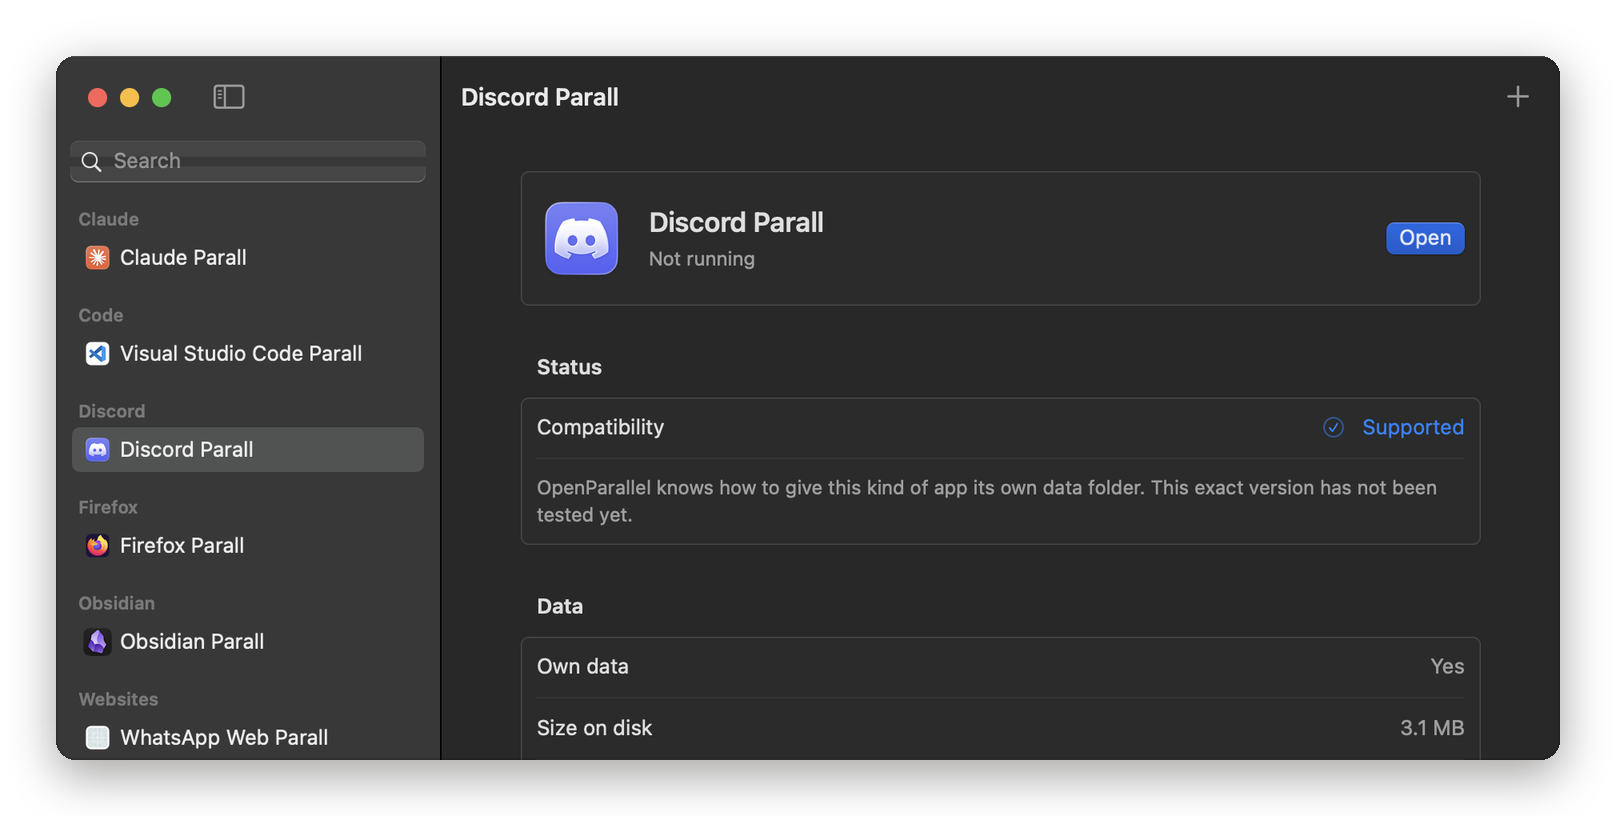
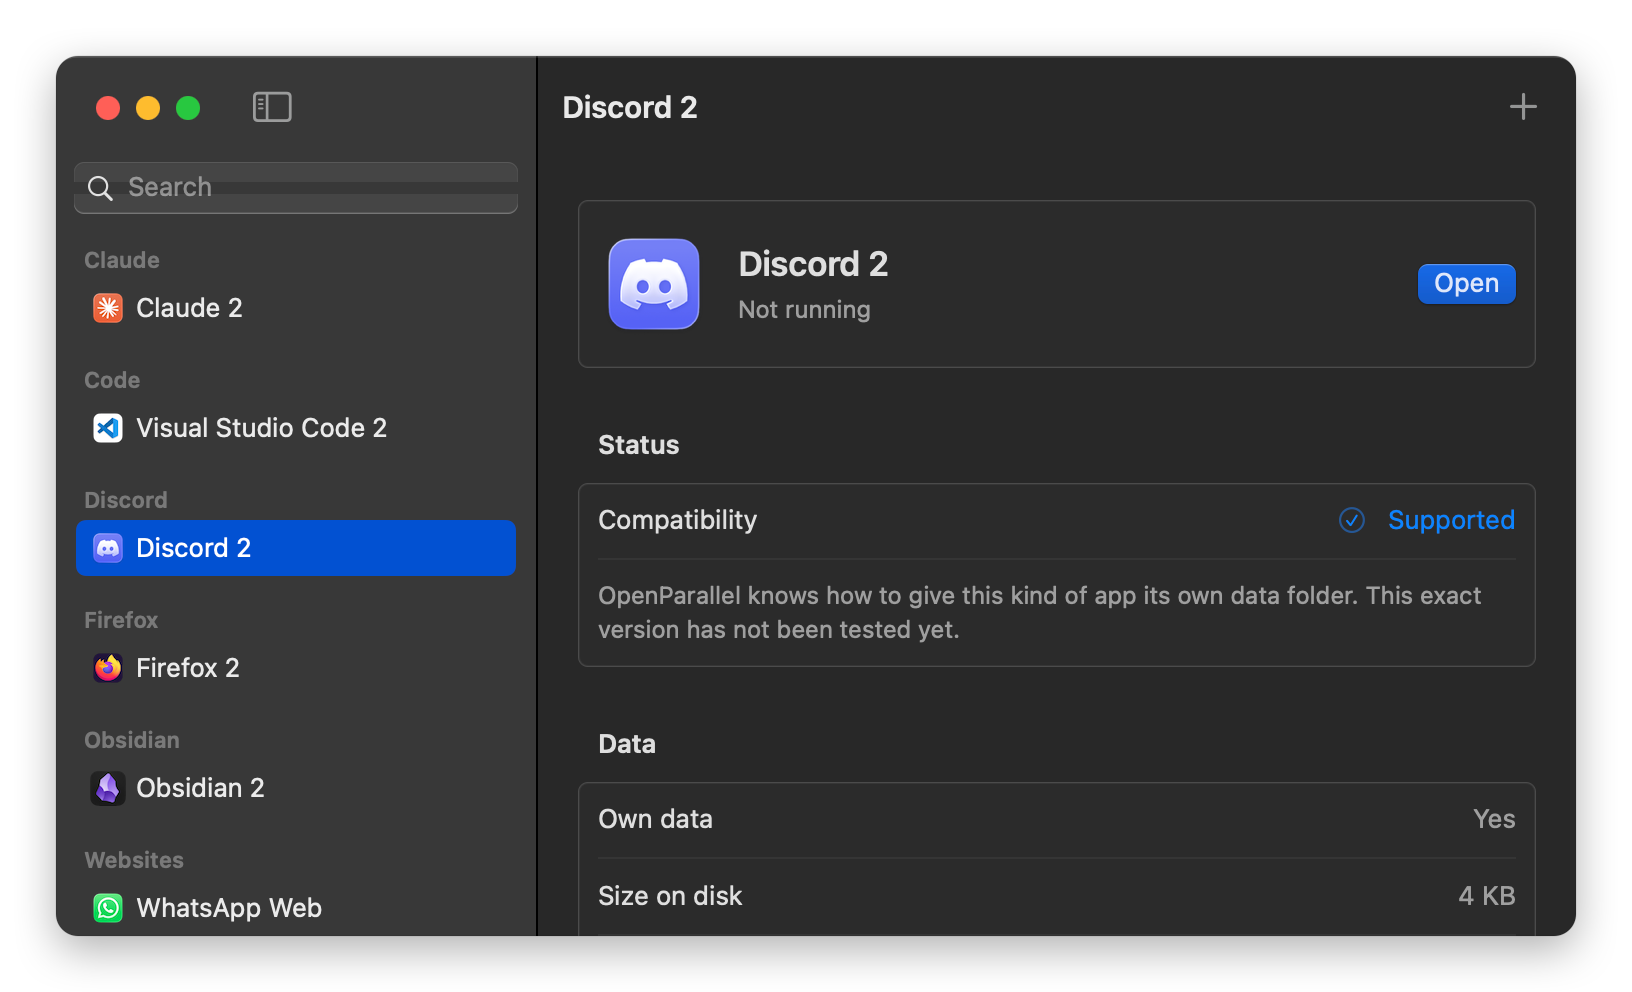
Docs, site and screenshots follow the new copy names
The README, site, banner, demo and macOS screenshots show "Discord 2". The FAQ says
plainly that OpenParallel is an independent project and what 1.0.0 used. Register
rows whose recipe came from the removed list move to Wanted; counts match the
tested ledger (26 apps, 36 versions).

diff --git a/web/site/index.html b/web/site/index.html
@@ -93,14 +93,14 @@
             <div><h3>Pick the app</h3><p>Your apps, grouped by what a copy gets: its own login and data, a second window with the same data, or nothing because the app allows only one copy.</p></div>
           </li>
           <li data-step="2" tabindex="0">
-            <div><h3>Name the copy</h3><p>It’s called “Discord Parall” unless you rename it. Separate login and data is on wherever the app allows it.</p></div>
+            <div><h3>Name the copy</h3><p>It’s called “Discord 2” unless you rename it. Separate login and data is on wherever the app allows it.</p></div>
           </li>
           <li data-step="3" tabindex="0">
             <div><h3>Open it like any app</h3><p>It waits in the <span data-menu-word>Dock and Launchpad</span> under its own name. Sign in to the other account once and it stays there.</p></div>
           </li>
         </ol>
       </div>
-      <div class="sheet" data-sheet data-step="1" role="img" aria-label="The New instance window: choosing Discord from the list of apps, naming the copy, and the result: Discord and Discord Parall side by side.">
+      <div class="sheet" data-sheet data-step="1" role="img" aria-label="The New instance window: choosing Discord from the list of apps, naming the copy, and the result: Discord and Discord 2 side by side.">
         <div class="titlebar"><span class="lights" aria-hidden="true"><i></i><i></i><i></i></span><span class="title">New Instance</span><span style="width:47px"></span></div>
         <div class="sheet-body">
           <div class="sheet-pick">
@@ -114,7 +114,7 @@
             <div class="sheet-row"><span class="face" style="--face:var(--tile-5)">N</span><span>Notes</span><small>Shares data</small></div>
           </div>
           <div class="sheet-form">
-            <div class="sheet-field"><label>Name</label><output>Discord Parall</output></div>
+            <div class="sheet-field"><label>Name</label><output>Discord 2</output></div>
             <div class="sheet-field"><label>Separate login and data</label><span class="sheet-toggle" aria-hidden="true"></span></div>
             <div class="sheet-field"><label>Open after creating</label><span class="sheet-toggle" aria-hidden="true"></span></div>
             <div class="sheet-actions"><span>Back</span><span class="go">Create</span></div>
@@ -122,7 +122,7 @@
           <div class="sheet-done">
             <div class="pair">
               <div><span class="face" style="--face:var(--tile-2)">D</span>Discord</div>
-              <div><span class="face" style="--face:var(--tile-2)">D</span>Discord Parall</div>
+              <div><span class="face" style="--face:var(--tile-2)">D</span>Discord 2</div>
             </div>
             <p>Two apps in the Dock. Two accounts, signed in.</p>
           </div>

diff --git a/web/site/desk.js b/web/site/desk.js
@@ -29,7 +29,7 @@
         msgs: [["Customer", "Has order 2291 shipped yet?"], ["Kiln Ceramics", "It left today. Tracking link sent by email."]] },
     },
     vscode: {
-      name: "Visual Studio Code", dock: "VS Code", letter: "V", tile: "var(--tile-4)", layout: "editor", parallName: "Visual Studio Code Parall",
+      name: "Visual Studio Code", dock: "VS Code", letter: "V", tile: "var(--tile-4)", layout: "editor", parallName: "Visual Studio Code 2",
       a: { account: "Profile: Personal", side: "Explorer", items: ["garden-planner", "src", "planner.ts", "README.md"], on: 2, tint: "var(--st-supported)",
         code: [["const", " beds = loadBeds("], ["", "  '/plots/2026.json'"], ["", ");"], ["export", " function sow(bed) {"]] },
       b: { account: "Profile: Fernhill", side: "Explorer", items: ["client-portal", "app", "routes.ts", "package.json"], on: 2, tint: "var(--st-tested)",
@@ -75,7 +75,7 @@
     const bar = el("div", "titlebar");
     const lights = el("span", "lights");
     lights.append(el("i"), el("i"), el("i"));
-    const title = el("span", "title", which === "a" ? data.name : data.parallName || `${data.name} Parall`);
+    const title = el("span", "title", which === "a" ? data.name : data.parallName || `${data.name} 2`);
     const account = el("span", "account", side.account);
     const controls = el("span", "wincontrols");
     controls.append(svg("i-min", "0 0 10 10"), svg("i-max", "0 0 10 10"), svg("i-x", "0 0 10 10"));
@@ -123,7 +123,7 @@
       return t;
     }
     const isCopy = kind === "copy";
-    const label = isCopy ? data.parallName || `${data.name} Parall` : data.name;
+    const label = isCopy ? data.parallName || `${data.name} 2` : data.name;
     const t = el("button", `tile running ${isCopy ? "t-copy" : "t-original"}`);
     t.type = "button";
     t.setAttribute("aria-label", isCopy ? `Open ${label}, the copy` : `Bring ${label} forward`);
@@ -140,7 +140,7 @@
     desk.dataset.os = os;
     desk.dataset.front = "copy";
     const name = APPS[app].name;
-    desk.setAttribute("aria-label", `Illustration: ${name} and ${APPS[app].parallName || name + " Parall"} open side by side on ${window.OP ? window.OP.systems[os].name : os}, each signed in to a different account.`);
+    desk.setAttribute("aria-label", `Illustration: ${name} and ${APPS[app].parallName || name + " 2"} open side by side on ${window.OP ? window.OP.systems[os].name : os}, each signed in to a different account.`);
     stage.append(windowFor("a"), windowFor("b"));
     const dock = el("div", "dock");
     for (let i = 0; i < BLANKS; i++) dock.append(tile("blank"));

diff --git a/docs/media/banner.html b/docs/media/banner.html
@@ -53,13 +53,13 @@ body { width: 1280px; height: 640px; overflow: hidden; background: var(--wall); 
     <div class="main"><div class="msg"><span class="av" style="background:var(--tile-1)">J</span><div><b>june</b><span>Kiln is loaded for Thursday.</span></div></div><div class="msg"><span class="av" style="background:var(--tile-3)">R</span><div><b>rafael</b><span>New mugs are up.</span></div></div></div>
   </div>
   <div class="win" style="left:760px;top:262px;width:470px;height:250px">
-    <div class="bar"><i></i><i></i><i></i><span class="t">Discord Parall</span><span class="who">maya</span></div>
+    <div class="bar"><i></i><i></i><i></i><span class="t">Discord 2</span><span class="who">maya</span></div>
     <div class="side">Kiln Ceramics<div class="on"># design</div><div># shipping</div></div>
     <div class="main"><div class="msg"><span class="av" style="background:var(--tile-5)">M</span><div><b>maya</b><span>Homepage comps are in.</span></div></div><div class="msg"><span class="av" style="background:var(--tile-7)">L</span><div><b>lena</b><span>Shipping labels printed.</span></div></div></div>
   </div>
   <div class="label" style="left:664px;top:46px;background:var(--wall-ink);color:white">MAIN</div>
   <div class="label" style="left:736px;top:238px;background:white;color:var(--wall-ink)">ALT</div>
-  <div class="tip">Discord Parall</div>
+  <div class="tip">Discord 2</div>
   <div class="dock">
     <div class="tile" style="background:var(--tile-6)">F</div><div class="tile" style="background:var(--tile-3)">T</div>
     <div class="tile" style="background:var(--tile-2)">D</div><div class="tile" style="background:var(--tile-2);outline:3px solid white;outline-offset:2px">D</div>

diff --git a/web/site/report/index.html b/web/site/report/index.html
@@ -73,7 +73,7 @@
 
       <div class="field">
         <label for="what">What happened, and what you expected instead</label>
-        <textarea class="textarea" id="what" name="what" required aria-describedby="what-error" placeholder="I opened Discord Parall and it showed my main account instead of the second one."></textarea>
+        <textarea class="textarea" id="what" name="what" required aria-describedby="what-error" placeholder="I opened Discord 2 and it showed my main account instead of the second one."></textarea>
         <p class="error-text" id="what-error" hidden>Say what happened, in a sentence or two.</p>
       </div>
 

diff --git a/README.md b/README.md
@@ -42,7 +42,7 @@
 
 You have a work Discord and a personal one. A client's Claude and your own. Two Telegram numbers, two GitHub accounts in VS Code. Every switch means signing out, signing in, and losing your place.
 
-OpenParallel gives you **a second copy of the app**, called `Discord Parall` unless you rename it. It opens from the Dock, Start menu or app launcher like any other app, and it signs in to the other account and stays there. The copy runs the very app you installed, so it updates when the original does. What it gets is its own place for everything that makes an account yours.
+OpenParallel gives you **a second copy of the app**, called `Discord 2` unless you rename it. It opens from the Dock, Start menu or app launcher like any other app, and it signs in to the other account and stays there. The copy runs the very app you installed, so it updates when the original does. What it gets is its own place for everything that makes an account yours.
 
 ## Highlights
 
@@ -66,7 +66,7 @@ OpenParallel gives you **a second copy of the app**, called `Discord Parall` unl
 <p align="center">
   <picture>
     <source media="(prefers-color-scheme: dark)" srcset="docs/media/macos-new-instance-dark.png">
-    <img src="docs/media/macos-new-instance-light.png" width="430" alt="The New Instance sheet for Claude: the installed version, its status, the name Claude Parall, and switches for separate login and data and for opening it after creating.">
+    <img src="docs/media/macos-new-instance-light.png" width="430" alt="The New Instance sheet for Claude: the installed version, its status, the name Claude 2, and switches for separate login and data and for opening it after creating.">
   </picture>
   <br><sub>The macOS app built from this repository, showing a sample library. Versions that haven't been tested yet say so.</sub>
 </p>
@@ -87,7 +87,7 @@ A copy is two small things: **a launcher** and **a data folder**. The launcher s
 
 ```mermaid
 flowchart LR
-    C["Discord Parall<br/>the copy's shortcut"] -->|"--user-data-dir=…/discord-parall"| A["Discord<br/>installed once, never modified"]
+    C["Discord 2<br/>the copy's shortcut"] -->|"--user-data-dir=…/discord-2"| A["Discord<br/>installed once, never modified"]
     O["Discord<br/>the original shortcut"] --> A
     A -->|"when opened as the copy"| D[("The copy's data<br/>its own sign-ins, cookies,<br/>settings and caches")]
     A -->|"when opened as itself"| P[("Discord's own data<br/>untouched")]
@@ -197,7 +197,7 @@ The app doubles as a command-line tool:
 ```sh
 OpenParallel inspect --src /Applications/Claude.app --json      # what a copy would get
 OpenParallel build --src /Applications/Claude.app               # make a copy
-OpenParallel web-build --url https://web.whatsapp.com --name "WhatsApp Web Parall"   # a website copy
+OpenParallel web-build --url https://web.whatsapp.com --name "WhatsApp Web"   # a website copy
 ./scripts/real-app-smoke-test.sh --app /Applications/Firefox.app --instances 2
 ```
 
@@ -292,7 +292,9 @@ OpenParallel keeps your work and personal lives apart; it doesn't get around any
 <details>
 <summary><b>How does it relate to Parall?</b></summary>
 
-OpenParallel is a free, open-source, clean-room take on Parall-style workflows, for macOS, Windows and Linux. It uses no Parall code, assets or implementation details; Parall's public compatibility list served as a benchmark.
+OpenParallel is an independent project, not affiliated with Parall. Parall is a paid Mac app that does a similar job; if you want a supported Mac app, it's worth a look. OpenParallel is free and open source, and also runs on Windows and Linux.
+
+Version 1.0.0 used Parall's public compatibility list as a fallback for Mac apps OpenParallel hadn't tested yet. From 1.0.1 on, every status and recipe comes from OpenParallel's own tests.
 </details>
 
 ## Contributing

diff --git a/PRODUCT.md b/PRODUCT.md
@@ -14,10 +14,10 @@ separate editor profiles. They are at a desk, mid-work, tired of signing out and
 
 ## What is uniquely true
 - A copy opens from the Dock, Start menu or applications menu like any app, under its own name
-  (default: "<App> Parall").
+  (default: "<App> 2", then "<App> 3"…).
 - Honest status per app, never rounded up: Tested (this exact version ran as two copies with
   separate data), Supported (a recipe exists for this kind of app), Experimental, Shares data,
-  Not supported. 27 apps / 37 versions tested on macOS as of 2026-10.
+  Not supported. 26 apps / 36 versions tested on macOS as of 2026-10.
 - Private by construction: no telemetry, no account, no background service, no network calls
   from OpenParallel itself. Removing a copy moves it to the Trash / Recycle Bin.
 - Works with websites too: any site as its own app window with its own cookies.

diff --git a/desktop/PLAN-WINDOWS.md b/desktop/PLAN-WINDOWS.md
@@ -321,7 +321,7 @@ auto-update; Linux build (possible later with the same Avalonia code).
 - Ali's VM "Windows 11 mie" (Windows 11 on ARM, the x64 build runs under emulation), driven by
   keyboard through `prlctl send-key-event` and read through screenshots.
 - Firefox: copy created, opened on a fresh profile, shown as Running, quit to Not running; the
-  original Firefox ran beside it on its own profile; the Start menu has "Firefox Parall".
+  original Firefox ran beside it on its own profile; the Start menu has the copy.
 - Installed for the test (official ARM64 installers, Ali's OK): Cursor 3.24.18 (user setup),
   Antigravity 2.23.1, Claude 2.42304 (MSIX; needs admin for its Cowork service, Ali approved it),
   ChatGPT 155.0.8059 from the Store (the Codex app now ships inside it; Ali approved its admin
